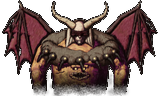
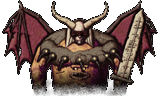
계층군주 보상 셋(계층보구 뼈 대검·계층석·계층정수), 드레드피어 뼈 대검 그림
Claude-Session: https://claude.ai/code/session_01Uvfio45vEZpjVpeBaGQidM

diff --git a/docs/REFERENCE.md b/docs/REFERENCE.md
@@ -17,6 +17,7 @@
 - **상태이상 키(G4)**: `resist {stats}`(남이 건 것만 저항), `immune_if {stat, at_least}`, `on_max_stacks {status}`, `break_on_damage(_types)`, `heal_mult`, `misdirect {chance, pool, power_mult, ignore_defense}`, `battle_only`, 수정자 값에 수식 문자열(걸릴 때 계산).
 - **상태이상·정수 재기획(2026-10-19, J17)**: 공용 상태 = 이름 하나에 효과 하나(서리 = 민첩↓ 3중첩 → 빙결 = 못 움직임, 저항 스탯 상태마다 하나 — `docs/plans/status_redesign.md`). 상태 키 `after_immune`(풀린 뒤 면역)·`on_act`(행동할 때마다 — 출혈)·`heal_cures_stack`·`skip_chance`(마비·공포)·`hit_taken`/`crit_taken`(표식)·플래그 `draws_attacks`(끌어들이기 — 몬스터 무작위 공격이 `combat.taunt_chance`로 먼저). 새 효과 `consume_status`(상태 터뜨리기)·`gauge`(행동 게이지)·`cover`(대신 맞기 → 상태 `covered`, `BattleRules.apply_cover`), 피해 키 `power_if_hp_below`(처형)·`power_per_summon`, 패시브 `on_kill`·`power_vs_status`·`hit_vs_status`·`reflect_status`·`skip_bonus_vs`·`counter_while`, `apply_status` `if_target_status`, `soul_slash` `mult_if_status`. 새 공용 상태는 기존 것(격앙·신속·철벽·잠복·저주·혼미·취약·표식·끌어들이기)을 먼저 쓴다.
 - **도시(M4, 2026-10-14)**: 흐름 = 새 게임·귀환 → `CityScreen`(사망만 타이틀). 거리 좌표 = 화면 높이 720 기준 거리 단위(`render.json city`), 거리 = `city.json street.layers`(시차) 위에 시설 건물. 거리에서 시설을 고르면 행동력 `facility_entry_cost`(1) — **행동력은 입장에만 쓰고 시설 안 활동은 쓰지 않는다**, 활동은 `activities/<id>`(`cost_stones`·`effects[]`·`panel`). 순(상·중·하) × 12달, 순당 행동력 3, 다 쓰고 거리로 나오면 다음 순, **하순이 끝나면 저절로 차원광장 → 미궁**(`expedition_due`), 귀환하면 다음 달 상순(`return_from_dungeon`) (`CityState`, `GameState.city`). **시설 안 활동 한 번 → 결과를 대화창에서 넘기면 저절로 거리로**(나가기 버튼은 언제나 — 창구형은 선택판 맨 끝 나가기·Backspace·Esc로 마침, 할 게 없으면 바로 나옴, UI15). 규칙 값은 2026-10-15 모두 임시값(`docs/balance/city.md`, CT26) — null로 되돌리면 효과 없음(검증기 경고 `CityValues.nulls`), 디버그 F1은 `CityValues.tunables`를 `CityState.overrides`로 임시 변경(저장 안 됨). 피로도 = `PlayerCharacter.fatigue`(`Fatigue`, 미궁 연결 지점 `on_dungeon` 4곳, 단계 효과 `effects()` → 수정자 출처 `fatigue`). 상점은 아이템 price, 정수 제거는 `EssenceSet.remove`. 한 칸 저장은 차원광장에서만(`SaveGame`, 사망 시 삭제), 하순이 끝나면 차원광장(`PlazaScreen`, 포탈은 한 달에 한 번 `expedition_month`). 가정 CT1~CT33.
+- **계층군주 보상(2026-10-21, DF16)**: 몬스터 `lord_drops`[{item, chance}](rank lord만 — Loot가 drops 뒤에 굴린다), 아이템 등급 `floor_relic`(계층보구, tags.rarities), 아이템 `opens_floor_rift: <층>`(계층석 — 그 층 기념비 `RiftWatch.try_offer`), 계층정수 = 보통 정수 파일(`rank: lord` — 무지갯빛, `EssenceDrop.GUARDIAN_RANKS`), 확률 `balance essence.drop_chance_by_rank.lord`. 몬스터 `drops`는 균열 열쇠(rift_bound)만(검증기).
 - **도시 생활(2026-10-20, CT35·CT37·CT39)**: 오늘의 거리 `city_events/<id>` {facility, weight, when{from_month, periods[], weather[]}, activities[], once} · 활동 `"extra": true`(사건으로만 열린다 — 시설 activities 목록에 넣지 않는다), `stock`(상점 패널 활동의 자기 판매 목록) · 도시 효과 `pay_tax` · `city.json happenings{count[최소,최대]}` · `tax{by_year[], scale, race_rate{종족}, relief{종족:{years, ratio}}, exempt[], due_month}` · 문자열 `city.tax_execution.<n>`. 상태 `CityState` happenings·seen_once·tax_paid_year(저장). 시설 `"placeholder": true` = 기능 없는 자리(활동 없음, 입장 행동력 0 — 모험가 길드). 상점 창구 활동 `deals`: equipment(장비 — 아이템 category가 `city.json shop.equipment_categories`)·goods(장비 아닌 것) — 판매 목록·사들이는 것 모두 거른다(대장간 `smithy_trade` · 상점 `shop_trade`). 거리 넘기기 시간 `render.json city.step_sec`. 검사 `CityLifeRules`.
 
 ## 파일 구조(자세히)

diff --git a/docs/CANON.md b/docs/CANON.md
@@ -47,7 +47,7 @@
 - **1층 수정동굴 = 733×733 고정 지도**(모든 게임에서 같은 지형 — `data/maps/f1_crystal_cave.json`): 거대한 십자가(중심부 153² + 팔 288×135) 안의 **미로 동굴** — 꼬인 굴 + 중간 크기 공동·방(거대 공동 없음), 지하 호수·석순 기둥·수정 무리, 막다른 길 없음, 통로 폭 ≥ 2. 중심 대현자 기념비, 팔 끝 암흑지대 안 2층 포탈 4개. 기념비에서 한 방향으로만 가도 포탈에 닿는다(약 450~470걸음 ≈ 10시간). **시작 위치·몬스터·동굴 요소 상태만 입장마다 새로.** (CR1~CR24)
 - **1층 몬스터**: 중심부 4종 섞임, 동 칼날늑대·서 노움·남 구울·북 고블린. 지역마다 20~26무리, 시간이 지나면 늘어남(최대 +18). 1층 변이종은 지역 표에서 뺐다(CR7 — 사용자 결정 2026-10-16: 변이종 5종은 넣지 않는다, 엘더 구울만 구울 군주 소환으로).
 - **동굴 요소** 25종 203곳(`data/events`, 자리 = 고정 지도 `features`): 탐험가 시체(구역별 상처·전리품·신원패)·버려진 마석·꺼진 모닥불(휴식 보너스)·부서진 장비·숨은 보급품(정신력 탐지)·공물 더미·맑은 샘(마시기 피로 −8·씻기 출혈 해제·물 담기)·수정 물방울 종유석(영혼력)·석순 숲·수정 버섯·늑대 잠자리(지키는 무리·도감)·노움 잡동사니·노움 은닉처(노움이 쫓아옴)·갉아먹힌 시체 더미(부패)·고블린 모닥불(지키는 무리)·고블린 덫(숨음)·젖은 비탈·글만 나오는 분위기 요소. 살피기 = **F**. **하지 않기로 한 것**: 지도를 바꾸는 요소(벽 깨기·지름길), 수정 맥, 메아리 공동, 쪽지 지도, 찬 바람 굴, 벽 표식·화살표·낙서, 호수 마시기 판정. (FE1~FE12)
-- **계층군주 드레드피어**: 3일 차 이후 5인 이상이 한곳에 머물면 소환(혼자서는 안 나온다 — 디버그 소환만). 페이즈·게이지·구더기. (DF1~DF15)
+- **계층군주 드레드피어**: 3일 차 이후 5인 이상이 한곳에 머물면 소환(혼자서는 안 나온다 — 디버그 소환만). 페이즈·게이지·구더기. (DF1~DF15) **보상(2026-10-21, DF16)**: 경험치 +15(1회) + 확률 드롭 셋 — 계층보구 뼈 대검(8%) · 수정동굴의 계층석(35% — 기념비에 바치면 1층 균열 하나) · 계층정수(20% — 무지갯빛). 뼈 대검을 든다(전투 그림).
 - **균열 4개**(1층): 핏빛성채(5챕터, 수호자 블라터) · 빙하굴(4, 타룬바스) · 녹색 탄광(4, 킹 슬라임) · 강철의 묘(4, 일디움 — 수수께끼 문지기). 기념비에 해당 마석을 바치면 강제 개방, 자연 개방은 지금 첫 원정부터 확정(PA9 — 다시 정할지 미결). 챕터마다 손 설계 지도(`data/maps/rifts/`, 시야 제한 없음 — 밝다). **챕터 사이는 이어진 길목**: 길목은 지도 가장자리, 걸어 들어가면 화면이 어두워졌다 밝아지며 다음 챕터, 지나온 챕터로 되돌아갈 수 있다(상태 그대로), 앞 챕터 출구와 다음 입구는 반대쪽 가장자리, 마지막 출구는 탈출 포탈(E) (RF16). 함정·위험·히든 피스·넘버스(초록 보석·고블 쿼츠·빙정·여신의 눈물·네크로노미콘 등). (RF·BF·GC·GM·GI)
 
 ## 5. 전투
@@ -65,7 +65,7 @@
 - **대장간·모험가 길드(2026-10-20, CT39·CT40)**: 대장간 = 장비 구매·판매 창구. 모험가 길드 = 건물·실내 그림만(기능 없음 — 들어가도 행동력을 쓰지 않고 나가기만).
 - 없는 것(명세가 오면): 길드 기능(정보 구매·동료), 대장간 수리·제작, 환전소, 잡화점, 대신전 치료, 신관 영입, 소문·정보를 다시 보는 창, 명성·인연(사용자 기획 대기).
 
-- **처치 드롭(2026-10-21, G2a)**: 일반 몬스터 = 마석 100%(등급대로) + 정수(확률)뿐, 잡템 없음. 예외 = 균열 수호자 보상·챕터 열쇠(지휘관의 뿔피리).
+- **처치 드롭(2026-10-21, G2a)**: 일반 몬스터 = 마석 100%(등급대로) + 정수(확률)뿐, 잡템 없음. 예외 = 균열 수호자 보상·챕터 열쇠(지휘관의 뿔피리)·계층군주 보상(DF16).
 
 ## 7. 조작 (2026-10-19, UI14·UI17·UI18)
 

diff --git a/docs/PROGRESS.md b/docs/PROGRESS.md
@@ -8,7 +8,7 @@
 
 - **흐름**: 타이틀 → 캐릭터 만들기 → 도시 라비기온(순·행동력·시설 6곳 + 장비 창구 대장간·자리만 있는 모험가 길드 — 오늘의 거리·연말 세금) → 차원광장(한 칸 저장) → 미궁 1층(실시간 탐험 + CTB 전투) → 귀환 → 다음 달. 사망하면 바로 타이틀(저장 삭제).
 - **있음**: 1층 전부(733×733 고정 지도·동굴 요소 25종·계층군주·균열 4개 17챕터 — 챕터 사이는 이어진 길목, 오갈 수 있다), 몬스터 52·정수 50(재기획 적용)·스킬 약 270·상태이상 재기획, 정규 파티 5인(혼자면 랜덤 모험가 4명), 손그림풍 도시·전투·탐험 맵 그림, 키보드 전용 UI(Tab 메뉴·하단 대화창), 웹 내보내기.
-- **없음**: 2층(M6), 길드 기능(건물만 있음)·대장간 수리·동료 고용, 환전·잡화점, 명성·인연(사용자 기획 대기), 묘비 목록, 부적·강제 개방 마석을 얻을 길, 균열 4종 동굴 요소 그림.
+- **없음**: 2층(M6), 길드 기능(건물만 있음)·대장간 수리·동료 고용, 환전·잡화점, 명성·인연(사용자 기획 대기), 묘비 목록, 부적·강제 개방 마석을 얻을 길(1층 균열은 계층석으로 열 수 있다), 균열 4종 동굴 요소 그림.
 - **검증**: `bash tools/check.sh` 모두 통과 — 데이터 경고 0, 단위 테스트 354, UI 스모크·메인 씬 스모크, 종료 시 누수 경고 0(2026-10-20).
 - **알아 둘 것**: 수치(도시·동굴 요소·균열 밸런스)는 대부분 임시값이고, **처음부터 끝까지 한 판을 사람이 해 본 기록이 없다** — 체감 항목은 미확인.
 
@@ -52,6 +52,7 @@
 
 ## 3. 최근 작업 (위가 최신 — 자세한 것은 `docs/archive/PROGRESS_LOG.md`에서 제목으로 검색)
 
+- 2026-10-21 **계층군주 보상 셋 · 드레드피어 뼈 대검**: 경험치 +15 + 뼈 대검(계층보구 8%)·계층석(35%, 기념비 → 1층 균열)·계층정수(20%, 무지갯빛), 전투 그림에 뼈 대검(DF16).
 - 2026-10-21 **처치 드롭 = 마석 100% + 정수**: 몬스터 잡템(뼈 목걸이·구리 반지·노움 8등급 마석) 지움, 마석 85% → 100%(해골 35% 덮어쓰기도 지움), 검증기가 잡템을 막는다. 균열 수호자 보상·지휘관의 뿔피리는 그대로(G2a).
 - 2026-10-20 **도시에서 Backspace 안 씀**(거리·시설·창구·정지 창 — 선택지와 Esc로만, Tab 메뉴는 그대로, CT41).
 - 2026-10-20 **거리 배치·A/D 넘기기·장비는 대장간**: 길드 맨 왼쪽·대장간은 상점 옆, A/D 한 번 = 옆 건물이 가운데로, 대장간 = 장비 창구·상점 = 그 밖의 것, 창구는 구매/판매 탭(W/S).

diff --git a/docs/archive/PROGRESS_LOG.md b/docs/archive/PROGRESS_LOG.md
@@ -6,6 +6,8 @@
 
 ## 작업 기록 (2026-10-20 이후 — 위가 최신)
 
+- **계층군주 보상 셋 · 드레드피어 뼈 대검 (2026-10-21, 사용자 "계층군주 처치 보너스 경험치는 15 … 보상은 셋 — 계층보구·계층석·계층정수. 드레드피어는 대검, 확률은 적정치. 전투 화면에서도 검")**: 경험치 15는 이미 `progression.json exp.lord_bonus`(1회)였다 — 시험으로 고정. 새 아이템 `dread_bone_greatsword`(등급 floor_relic 계층보구, 두 손 참격 30·근력 +5·생명력 +20, price 0)·`floor_stone_1`(수정동굴의 계층석, `opens_floor_rift: 1`), 드레드피어 `lord_drops` 8%·35%(`Loot` — rank lord만, 검증 `ContentRules`), 계층정수 `essences/dreadfear` + 정수판 스킬 3(`ess_dread_*`), `drop_chance_by_rank.lord` 0 → 0.2, `EssenceDrop.GUARDIAN_RANKS`에 lord(무지갯빛). `RiftWatch.try_offer`: 그 층 계층석이 있으면 먼저 써서 그 층 균열 하나(가중 무작위). 그림: `Lord._greatsword`(오른손 뼈 대검 — 마디 골·이 빠진 날·구더기), 전투 그림·맵 그림(`paint_actors --only=dreadfear`) 다시. 캡처 `--god`(무적 — 계층군주 전투 찍기). 시험: test_lord 보상(400번 굴려 확률·종류), test_rift 계층석. check.sh 통과.
+
 - **처치 드롭 = 마석 100% + 정수 (2026-10-21, 사용자 "적 처치 시 얻는 잡템 전부 제거 … 일반적인 적은 마석(100%) 정수(확률)만 … 균열 보스는 예외")**: `balance.loot.magic_stone_chance` 0.85 → 1.0(+주석), 해골 궁수·마법사 `magic_stone_chance` 0.35 지움, 구울·고블린·노움 `drops` 비움. 지휘관 데드맨의 뿔피리(핏빛성채 챕터 출구 열쇠)와 균열 `guardian_drops`는 남김. `ContentRules`: drops 아이템이 rift_bound가 아니면 오류. 시험 `test_kill_drops_are_magic_stone_only`(52종 — 등급 있으면 마석 하나, 그 밖은 열쇠만), 해골 35% 시험 고침. check.sh 통과(354). 남은 것: 뼈 목걸이·구리 반지를 얻을 곳이 없다.
 
 - **도시에서 Backspace 안 씀 (2026-10-20, 사용자 "도시에서 백스페이스 안쓰게 해줘")**: `CityScreen._unhandled_input`이 menu_back을 먹고 아무것도 안 함(Esc는 그대로 시설 나가기·정지 창), 시설 선택 창·창구 `show_choices` 뒤로 = 없음(`CityPanel.back_action` 지움), 거리 정지 창 can_back false. Tab 메뉴는 미궁과 같은 창이라 그대로(아이템 선택 창 취소가 Backspace뿐) — CT41. 스모크: 창구에서 Backspace가 아무 일도 안 하는지 + 돌아가기 버튼으로 탭. check.sh 통과.

diff --git a/docs/ASSUMPTIONS.md b/docs/ASSUMPTIONS.md
@@ -368,6 +368,7 @@
 | DF13 | holy_fire 정화(공포 −30), 클랜 승급, 고독의 무저갱·순례자의 동굴은 아직 없다(P4 플래그 `old_memory`/`twisted_memory`와 메시지만) | 해당 시스템이 없음 | 사제 스킬·클랜(M4 이후) |
 | DF14 | 드레드피어 등급 6은 [창](경험치에 쓰지 않음). 첫 처치 경험치 대신 군주 보너스 15만(`no_exp_ranks`에 lord) — 명세 §5.6 "드레드피어 15" | 명세 합계 108과 일치 | `progression.json` |
 | DF15 | 혼자 싸우면 거의 진다(뼈 대검 한 번에 Lv4 기준 생명력의 80%대). 권장 Lv4~5 × 5인 레이드 보스라 그대로 둠. 파티 시뮬레이션은 G4의 `tools/sim_parties.json` 때 | 명세 수치 | — |
+| DF16 | **계층군주 보상 셋**(사용자 결정 2026-10-21 "계층군주 처치 보너스 경험치는 15. 보상은 셋 — 넘버스 상위격 계층보구, 그 계층의 균열을 1회 여는 계층석, 계층정수. 드레드피어는 대검, 확률은 적정치로"): 경험치 +15(군주별 1회 — 이미 그랬다). 몬스터 `lord_drops`(rank lord만, 전투 장면에서 줍는다): **계층보구 뼈 대검** 8%(새 등급 `floor_relic` "계층보구" — 넘버스보다 위, 두 손 참격 공격력 30·근력 +5·생명력 +20, 팔 수 없다) · **수정동굴의 계층석** 35%(기념비에 바치면 1층 균열 하나가 열린다 — 종류는 가중 무작위, 한 번 쓰면 사라짐, 아이템 `opens_floor_rift: 1`, 다른 균열 마석보다 먼저 쓴다). **계층정수**(`essences/dreadfear`) 20%(`balance essence.drop_chance_by_rank.lord`) — 수호자 정수처럼 무지갯빛(액티브 전부·스탯·생명력 ×1.5, `EssenceDrop.GUARDIAN_RANKS`에 lord): 패시브 공포의 군주(전투 시작 때 적 전원 위축) · 붉은 뼈 대검 내려치기(정수) · 푸른 면죄부(정수 — 고립) · 초록 죽은 자의 기억(정수 — 2라운드 뒤 어둠 3발), 근력 22·항마력 14·정신력 16·생명력 40. 명세 V2 §7의 "정수 없음"·"부산물 가치 낮음"을 바꿨다. 확률 근거: 6시간마다 다시 나와 한 원정에 여러 번 잡을 수 있어 보구는 드물게, 계층석은 자주. 전투 그림 = 오른손에 구더기가 들끓는 뼈 대검(`tools/monster_art/Lord.gd _greatsword`) | 사용자 결정 + 확률·수치는 가정 | 몬스터 `lord_drops`, `balance essence.drop_chance_by_rank.lord`, `essences/dreadfear.json` |
 
 ## 전투·스탯·상태이상 감사 수정 (2026-10-13)
 
